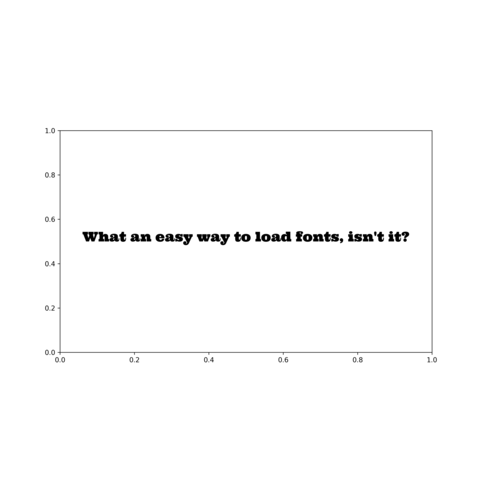
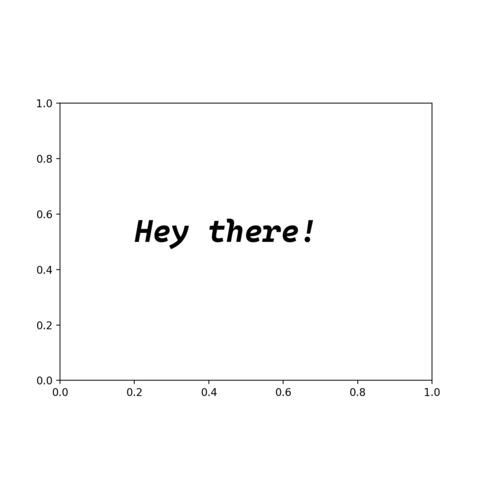
update pyfonts

diff --git a/src/pages/pyfonts.js b/src/pages/pyfonts.js
@@ -15,7 +15,7 @@ import { SEO } from '../components/SEO';
 const chartDescription = (
   <>
     <p>
-      <a href="https://github.com/JosephBARBIERDARNAL/pyfonts">PyFonts</a> is a
+      <a href="https://josephbarbierdarnal.github.io/pyfonts/">PyFonts</a> is a
       library that allows to load easily any font from the web and use it in
       your matplotlib charts.
     </p>
@@ -55,9 +55,9 @@ export default function Post() {
         <Row className="align-items-center">
           <Col md={6}>
             <p>
-              pyfonts provides <b>1 simple function</b>:<code>load_font()</code>
-              : load a font from the web (Github) and return a matplotlib font
-              object.
+              pyfonts has <b>a main simple function</b>:
+              <code>load_google_font()</code>: load a font from Google font and
+              return a matplotlib font object.
             </p>
           </Col>
           <Col md={6}>
@@ -73,49 +73,65 @@ export default function Post() {
       <Spacing />
 
       <Container>
-        <h2>1- How to find fonts</h2>
-
+        <h2>How to find good fonts</h2>
         <p>
-          There are many fonts available on the web. The{' '}
-          <strong>easiest way</strong> to find one is to follow these steps:
+          The easiest way to find great is to
+          <ul>
+            <li>
+              browse{' '}
+              <a href="https://fonts.google.com/" target="_blank">
+                Google Font
+              </a>
+            </li>
+            <li>copy the name of the font you like</li>
+            <li>
+              pass it to <code>load_google_font("Font Name")</code>
+            </li>
+          </ul>
         </p>
-
-        <ul>
-          <li>
-            Browse <a href="https://fonts.google.com/">Google Font website</a>{' '}
-            to find a font that you like. Let's say you want to use{' '}
-            <a href="https://fonts.google.com/specimen/Amaranth?query=amaranth">
-              Amaranth
-            </a>
-            .
-          </li>
-          <li>
-            Go to the{' '}
-            <a href="https://github.com/google/fonts/tree/main/ofl">
-              Google font GitHub repository
-            </a>{' '}
-            and type the name of your desired font in the search bar. We find
-            that <i>Amaranth font file</i> in <strong>Bold</strong> is named{' '}
-            <code>
-              https://github.com/google/fonts/blob/main/ofl/amaranth/Amaranth-Bold.ttf
-            </code>
-            .
-          </li>
-          <li>
-            Copy the URL and add <code>?raw=true</code> at the end, which gives
-            us{' '}
-            <code>
-              https://github.com/google/fonts/blob/main/ofl/amaranth/Amaranth-Bold.ttf?raw=true
-            </code>
-            .
-          </li>
-        </ul>
+        <p>
+          Then you can use the <code>weight</code> argument to control is the
+          font should be <b>bold</b> or thin for example.
+        </p>
+        <p>
+          You can control if the font should be <i>italic</i> by specifying{' '}
+          <code>italic=True</code> (default to <code>False</code>).
+        </p>
       </Container>
 
       <Spacing />
 
       <Container>
-        <h2>2 - Load a font in matplotlib</h2>
+        <h2>Fonts that are not on Google font</h2>
+        <p>
+          Since not all fonts are available on Google fonts,{' '}
+          <code>pyfonts</code> provides a <code>load_font()</code> function that
+          allows to <b>load a font from any arbitrary url</b> that points to a
+          font file.
+        </p>
+        <p>
+          Most font files are on Github repositories. In order to load a font
+          from a Github repository, you have to:
+        </p>
+        <ul>
+          <li>
+            Copy the url of that font file. Here we'll use this url from pyfonts
+            Github repository:
+          </li>
+          <p>
+            <code>
+              https://github.com/JosephBARBIERDARNAL/pyfonts/blob/main/tests/Ultra-Regular.ttf
+            </code>
+          </p>
+          <li>
+            Then we add <code>?raw=true</code> at the end, which gives us:
+          </li>
+          <p>
+            <code>
+              https://github.com/JosephBARBIERDARNAL/pyfonts/blob/main/tests/Ultra-Regular.ttf?raw=true
+            </code>
+          </p>
+        </ul>
         <Row className="align-items-center">
           <Col md={6}>
             <p>
@@ -168,9 +184,8 @@ export default function Post() {
           <Col md={7}>
             <p>
               <code>PyFonts</code> also allows you to load a font file that you
-              have on your own computer. You just have to call the{' '}
-              <code>font_path</code> argument instead and give it the path to
-              your font
+              have on your own computer. You just have to give it the path to
+              your font.
             </p>
           </Col>
           <Col md={5}>
@@ -229,6 +244,16 @@ export default function Post() {
           You might be interested in
           <ul>
             <li>
+              The official{' '}
+              <a
+                href="https://josephbarbierdarnal.github.io/pyfonts/"
+                target="_blank"
+              >
+                pyfonts documentation
+              </a>
+              .
+            </li>
+            <li>
               The{' '}
               <a href="https://github.com/JosephBARBIERDARNAL/pyfonts">
                 {' '}
@@ -274,24 +299,18 @@ export default function Post() {
   );
 }
 
-const quickCode = `# Load pyfonts and matplotlib
-import matplotlib.pyplot as plt
-from pyfonts import load_font
+const quickCode = `import matplotlib.pyplot as plt
+from pyfonts import load_google_font
 
-# load font from Github
-font = load_font(
-   font_url="https://github.com/google/fonts/blob/main/apache/ultra/Ultra-Regular.ttf?raw=true"
-)
+font = load_google_font("Cascadia Mono", weight="bold", italic=True)
 
-# Create a plot with an annotation that uses the loaded font
-fig, ax = plt.subplots(figsize=(10, 6), dpi=300)
+fig, ax = plt.subplots()
 ax.text(
-   x=0.5,
-   y=0.5,
-   s=f"What an easy way to load fonts, isn't it?",
-   font=font,
-   fontsize=20,
-   ha="center",
+  x=0.2,
+  y=0.5,
+  s="Hey there!",
+  size=30,
+  font=font # we pass it to the 'font' argument
 )
 plt.show()
 `;
@@ -300,7 +319,7 @@ const useFontCode = `import matplotlib.pyplot as plt
 from pyfonts import load_font
 
 font = load_font(
-  font_url="https://github.com/google/fonts/blob/main/ofl/amaranth/Amaranth-Bold.ttf?raw=true"
+  "https://github.com/google/fonts/blob/main/ofl/amaranth/Amaranth-Bold.ttf?raw=true"
 )
 
 fig, ax = plt.subplots(figsize=(10, 10), dpi=300)
@@ -319,10 +338,10 @@ const useFontCode2 = `import matplotlib.pyplot as plt
 from pyfonts import load_font
 
 font = load_font(
-   font_url="https://github.com/google/fonts/blob/main/ofl/amaranth/Amaranth-Regular.ttf?raw=true"
+  "https://github.com/google/fonts/blob/main/ofl/amaranth/Amaranth-Regular.ttf?raw=true"
 )
 bold_font = load_font(
-   font_url="https://github.com/google/fonts/blob/main/ofl/amaranth/Amaranth-Bold.ttf?raw=true"
+  "https://github.com/google/fonts/blob/main/ofl/amaranth/Amaranth-Bold.ttf?raw=true"
 )
 
 fig, ax = plt.subplots(figsize=(6, 6), dpi=300)
@@ -341,9 +360,7 @@ plt.show()
 const useFontCode3 = `import matplotlib.pyplot as plt
 from pyfonts import load_font
 
-font = load_font(
-   font_path="path/to/myfont/Ultra-Regular.ttf"
-)
+font = load_font("path/to/myfont/Ultra-Regular.ttf")
 
 fig, ax = plt.subplots(figsize=(6, 6), dpi=300)
 ax.text(
